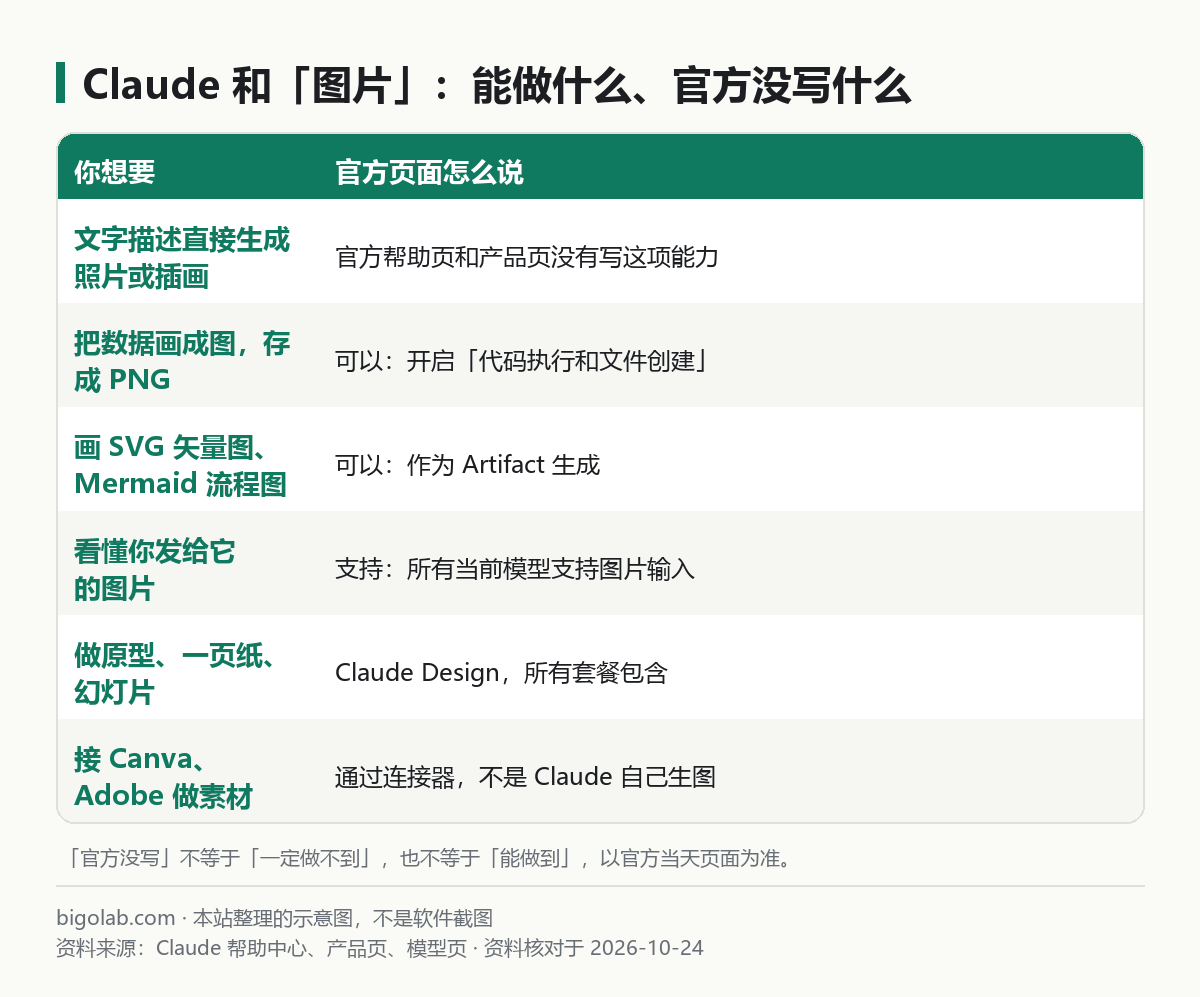
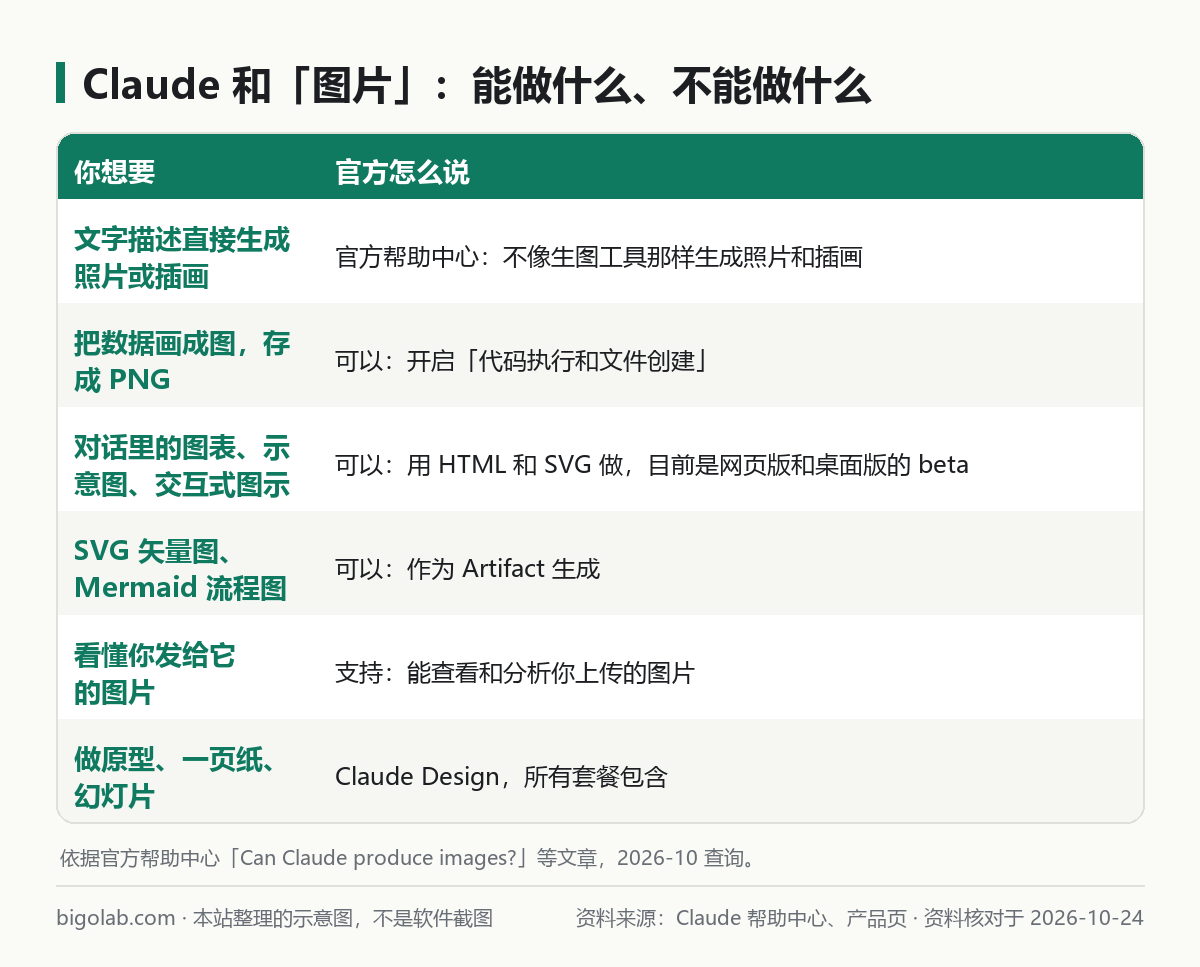
内容：Claude 热词教程 1065（手机应用订阅管理）；1053 按官方「Can Claude produce images?」改版；登记 1062/1063/1066 跳过原因

diff --git a/docs/内容平台/种子内容/guides/1065-claude-app-store-google-play-subscription.md b/docs/内容平台/种子内容/guides/1065-claude-app-store-google-play-subscription.md
@@ -1,0 +1,108 @@
+---
+title: Claude 订阅用 Google Pay、Apple 内购怎么管理：手机应用订阅的取消、退款和发票
+slug: claude-app-store-google-play-subscription
+products: [claude]
+models: []
+accountTier: PRO
+excerpt: 在 Claude 手机应用里用苹果或 Google Play 订阅，怎么管理？按官方帮助中心：谁收款、怎么取消、退款找谁、发票在哪、用量额度怎么买；官方没有提到 Google Pay 这个名字，只说支付方式取决于苹果或 Google。
+checkedOn: 2026-10-24
+sources:
+  - https://support.claude.com/en/articles/8325618-paid-plan-billing-faqs
+  - https://support.claude.com/en/articles/8325617-cancel-your-pro-or-max-subscription
+  - https://support.claude.com/en/articles/12386328-request-a-refund-for-a-paid-claude-plan
+  - https://support.claude.com/en/articles/16607638-understanding-your-pro-or-max-plan-invoices
+  - https://support.claude.com/en/articles/12429409-manage-usage-credits-for-paid-claude-plans
+  - https://support.claude.com/en/articles/9612892-how-do-i-sign-up-for-claude-pro-on-claude-for-android
+  - https://support.claude.com/en/articles/9266495-how-do-i-sign-up-for-claude-pro-on-the-claude-app-for-ios
+verify:
+  - 官方在 Android、iOS 订阅文章里只写了「Upgrade to Pro」后「按提示完成应用内购买」，没有写价格、具体支付方式，也没有出现 Google Pay 这个名字；本文不对「Google Pay 能不能付」作结论，以 Google Play 结账页显示的方式为准
+  - 官方说明手机应用商店的价格可能与网页订阅不同；各地区价格和税费以应用商店结账页为准
+  - 用量额度「手机订阅者只能在网页版启用和购买」取自 Extra usage 官方文章；退款、取消、发票规则取自 2026-10-24 官方帮助中心
+---
+
+> 本文根据 Claude 帮助中心的《Paid plan billing FAQs》《Cancel your Pro or Max subscription》《Request a refund for a paid Claude plan》《Understanding your Pro or Max plan invoices》和用量额度、手机应用订阅文章整理，资料核对于 2026-10-24。图为本站整理的示意图。**以官方页面和应用商店显示的为准**。
+
+## 适用于谁
+
+- 在 Claude 手机应用里用苹果内购或 Google Play 订阅，想知道怎么管理的人；
+- 搜「claude 订阅 google pay」，想知道能不能用 Google Pay 付款的人；
+- 手机订阅后想取消、退款、找发票的人。
+
+网页订阅的取消和退款，见 [/guides/claude-cancel-subscription-refund](/guides/claude-cancel-subscription-refund)；发票，见 [/guides/claude-invoice-receipt-download](/guides/claude-invoice-receipt-download)。
+
+## 结论先说
+
+1. **手机应用里的订阅是应用内购买**：官方说明，在 iOS 和 Android 应用里点头像、进设置、点 **Upgrade to Pro**，按提示完成应用内购买。这时收款的是苹果 App Store 或 Google Play，不是 Anthropic。
+2. **关于 Google Pay：官方没有提到这个名字。** 官方只说，网页订阅只接受信用卡或借记卡，应用订阅则使用苹果或 Google 提供的支付方式。你能用什么付款，以 Google Play 结账页显示的为准。
+3. **取消要在订阅的平台上做**：应用里点头像 → **Billing** → **Manage subscription**；如果已经删了应用，用苹果或 Google 官方的订阅管理方式取消。
+4. **退款分渠道**：苹果的扣款 Claude 客服无法退，要向苹果申请；Google Play 的由 Claude 客服核对资格。
+5. **发票和收据由苹果或 Google 开**，不在 Claude 账号里。
+6. 需要新开通、而又想用网页订阅的，可以看本站的 [/chongzhi/claude-pro](/chongzhi/claude-pro)。
+
+![网页订阅和手机应用订阅有什么不同](seed:g1065-web-vs-app-billing.png)
+*图：本站根据 [Claude 帮助中心：Paid plan billing FAQs](https://support.claude.com/en/articles/8325618-paid-plan-billing-faqs) 等整理的示意图*
+
+## 一、怎么在手机应用里订阅
+
+官方的步骤（iOS 和 Android 相同）：
+
+1. 打开 Claude 应用；
+2. 点右上角你的头像或首字母；
+3. 在设置页点 **Upgrade to Pro**；
+4. 按支付提示完成应用内购买。
+
+官方这两篇文章**没有写**价格、具体支付方式，也没有写如何管理、升降级、恢复购买。官方《What is the Pro plan?》只说：价格见 claude.ai/upgrade 或你所在地区应用商店里显示的价格；Pro 在美国是每月 20 美元，各地区价格不同，有的含税、有的结账时加税。官方对 Max 的说明还提到，应用商店里的价格可能与网页订阅价不同，具体见 [/guides/claude-pro-vs-max-difference](/guides/claude-pro-vs-max-difference)。
+
+## 二、怎么取消
+
+![手机订阅出问题，先找谁](seed:g1065-app-subscription-who-to-ask.png)
+*图：本站根据 [Claude 帮助中心](https://support.claude.com/en/articles/8325617-cancel-your-pro-or-max-subscription) 的取消、退款、发票、用量额度文章整理的示意图*
+
+官方《Cancel your Pro or Max subscription》：
+
+- **iOS**：打开 Claude 应用，点右上角头像，选 **Billing**，选 **Manage subscription**，按提示取消；如果已经删了应用，用苹果官方「取消订阅」说明操作；
+- **Android**：同样是头像 → **Billing** → **Manage subscription**；如果已经删了应用，用 Google 官方「在 Google Play 取消、暂停或更改订阅」说明操作；
+- 取消在**当前计费周期结束时**生效，官方建议在下次扣费前至少 24 小时取消。
+
+## 三、怎么退款
+
+官方《Request a refund for a paid Claude plan》：
+
+- **苹果（iOS）**：由苹果处理付款，Claude 客服无法查看或退款。要用购买时的苹果账号登录 reportaproblem.apple.com，选 **I'd like to** → **Request a refund**，选原因，选你的 Claude 订阅，提交。是否退款由苹果决定。**申请退款不等于取消订阅**，要另外取消，否则还会继续扣款；
+- **Google Play（Android）**：订阅仍有效时，联系 Claude 客服，由客服核对资格，首条消息里写清细节；订阅已失效时，用 Google Play 绑定的邮箱，或 GPA 订单号（在 Google Play 收据上，形如 GPA.xxxx-xxxx-xxxx-xxxxx）联系客服。退款可能要几天才到账。
+
+退款的总原则（付款一般不可退，欧洲经济区和英国 14 天内可申请，按用量折算）见 [/guides/claude-cancel-subscription-refund](/guides/claude-cancel-subscription-refund)。
+
+## 四、发票和收据
+
+官方《Understanding your Pro or Max plan invoices》说明：通过 iOS 或 Android 应用订阅的，Anthropic 不开发票，由苹果 App Store 或 Google Play 向你收费，收据在你的应用商店账号里。发票上要不要写公司名、税号，官方没有说明应用商店订阅怎么处理，请向苹果或 Google 确认。
+
+## 五、手机订阅怎么开用量额度
+
+官方《Extra usage / Manage usage credits for paid Claude plans》说明：如果你是通过 iOS 或 Android 应用订阅的，只能在 **Claude 网页版**上启用和购买用量额度，并且要先在网页上添加付款方式。额度怎么算见 [/guides/claude-code-pro-max-or-api](/guides/claude-code-pro-max-or-api) 和 [/guides/claude-usage-limits](/guides/claude-usage-limits)。
+
+## 六、想从应用订阅换成网页订阅
+
+官方没有写「直接迁移」的功能。官方帮助中心写明的相关事实是：账单日不能直接改，可以取消当前订阅后在想要的日期重新订阅；换订阅币种也需要先设为到期取消、等周期结束再重新购买。所以如果想从应用订阅换成网页订阅，思路是：在应用商店取消续费，等当前周期结束，再到网页上重新订阅。具体细节请向官方客服确认。手机应用的其他说明见 [/guides/claude-mobile-app](/guides/claude-mobile-app)。
+
+## 常见问题
+
+**Q：Claude 订阅能用 Google Pay 付款吗？**
+官方页面没有提到 Google Pay。应用订阅走的是 Google Play 的支付，能用什么方式看 Google Play 结账页。
+
+**Q：为什么 App 里的价格和网页不一样？**
+官方说明应用商店价格可能与网页价不同，也受地区和税费影响。
+
+**Q：已经退款了，订阅还在扣吗？**
+苹果的退款申请不会自动取消订阅，要另外取消；官方明确提醒。
+
+**Q：发票哪里下？**
+苹果或 Google 的账号里，不在 Claude 账号里。
+
+## 参考资料
+
+- Claude 帮助中心：Paid plan billing FAQs — https://support.claude.com/en/articles/8325618-paid-plan-billing-faqs
+- Claude 帮助中心：Cancel your Pro or Max subscription — https://support.claude.com/en/articles/8325617-cancel-your-pro-or-max-subscription
+- Claude 帮助中心：Request a refund for a paid Claude plan — https://support.claude.com/en/articles/12386328-request-a-refund-for-a-paid-claude-plan
+- Claude 帮助中心：Understanding your Pro or Max plan invoices — https://support.claude.com/en/articles/16607638-understanding-your-pro-or-max-plan-invoices
+- Claude 帮助中心：Extra usage for paid Claude plans — https://support.claude.com/en/articles/12429409-extra-usage-for-paid-claude-plans

diff --git a/docs/内容平台/种子内容/guides/1053-claude-image-generation.md b/docs/内容平台/种子内容/guides/1053-claude-image-generation.md
@@ -1,18 +1,19 @@
 ---
-title: Claude 能生成图片吗：能画图表和 SVG，官方没写文字生图
+title: Claude 能生成图片吗：官方说不生成照片和插画，但能做图表和交互式图示
 slug: claude-image-generation
 products: [claude]
 models: []
 accountTier: FREE
-excerpt: Claude 能生成图片吗？按官方帮助中心和产品页核对：能把数据画成 PNG 图表、生成 SVG 和 Mermaid 图，Claude Design 能做原型和幻灯片；但官方页面没有写「文字直接生成照片」这项能力。附开启步骤和替代办法。
+excerpt: Claude 能生成图片吗？官方帮助中心明确写：Claude 不像生图工具那样生成照片和插画；但能做对话里的图表和交互式图示、PNG 数据图表、SVG 和 Mermaid 图，Claude Design 能做原型和幻灯片。附开启步骤。
 checkedOn: 2026-10-24
 sources:
+  - https://support.claude.com/en/articles/9002504-can-claude-produce-images
   - https://support.claude.com/en/articles/12111783-create-and-edit-files-with-claude
   - https://claude.com/product/claude-design
   - https://platform.claude.com/docs/en/models/overview
   - https://claude.com/pricing
 verify:
-  - 「官方没写文字生图」的结论来自 2026-10-24 对帮助中心文件创建文章、Claude Design 产品页和帮助中心首页的核对：这些页面都没有描述从文字提示直接生成照片或插画的能力；这不等于官方声明做不到，新功能出现后需更新
+  - 「不生成照片和插画」取自 2026-10-24 官方帮助中心《Can Claude produce images?》的原意（Claude 不像生图工具那样生成照片或插画）；对话里的图表和交互式图示目前是网页版和桌面版的 beta，功能出现变化时需更新
   - 「所有当前模型支持图片输入、文字输出」取自官方 Models overview
   - Claude Design 在所有套餐（含免费版）包含、standalone 站点 claude.ai/design 保留到 2026-12-14，取自产品页；Enterprise 的默认开关日期等细节本文不展开
 ---
@@ -27,18 +28,20 @@ verify:
 
 ## 结论先说
 
-1. **「根据一句话直接生成一张照片或插画」这项能力，官方页面没有写。** 我们核对了帮助中心的文件创建文章、Claude Design 产品页和帮助中心首页，都没有描述这项功能。这不等于官方声明「做不到」，只是官方没有把它作为 Claude 的功能写出来，所以本文不把它当作 Claude 的能力来介绍。
-2. **Claude 能做的「图」有这几类**（官方写明的）：把数据画成**图表并保存为 PNG 文件**；作为 Artifact 生成 **SVG 矢量图**和 **Mermaid 图表**；在 **Claude Design** 里做原型、一页纸、幻灯片。
-3. **看图是另一回事**：官方说所有当前模型都支持**图片输入、文字输出**，也就是 Claude 能看懂你发给它的图片、截图、图表，再用文字回答。
+1. **官方帮助中心明确写了：Claude 不像生图工具那样生成照片或插画。** 官方《Can Claude produce images?》的原意是：Claude 不会像图像生成工具一样生成照片和插画。所以「一句话生成一张照片」不是它的功能。
+2. **Claude 能做的「图」有这几类**（官方写明的）：在对话里用 HTML 和 SVG 做**图表、示意图和交互式图示**（官方标注目前是网页版和桌面版的 beta）；把数据画成**图表并保存为 PNG 文件**；作为 Artifact 生成 **SVG 矢量图**和 **Mermaid 图表**；在 **Claude Design** 里做原型、一页纸、幻灯片。
+3. **看图是另一回事**：官方说所有当前模型都支持**图片输入、文字输出**，帮助中心也写明 Claude 可以查看和分析你上传的图片，也就是能看懂图片、截图、图表，再用文字回答。
 4. 想要真正的「文字生图」，需要别的工具；对比和选择见 [/guides/chatgpt-vs-claude](/guides/chatgpt-vs-claude)。Claude 更适合的是文字、代码、文档、数据分析，选模型见 [/guides/claude-models-compare](/guides/claude-models-compare)。
 5. 想用到文件创建和更高用量，可以看 [/chongzhi/claude-pro](/chongzhi/claude-pro)；免费版也能开启文件创建。
 
-![Claude 和「图片」：能做什么、官方没写什么](seed:g1053-claude-and-images.png)
+![Claude 和「图片」：能做什么、不能做什么](seed:g1053-claude-and-images.png)
 *图：本站根据 [Claude 帮助中心：Create and edit files with Claude](https://support.claude.com/en/articles/12111783-create-and-edit-files-with-claude) 与 [Claude Design 产品页](https://claude.com/product/claude-design) 整理的示意图*
 
 ## 一、官方写明 Claude 能产出什么
 
-按帮助中心《Create and edit files with Claude》：
+官方《Can Claude produce images?》说得很直接：Claude 能在对话里直接构建图表、示意图和交互式图示来帮助你理解，这些用 HTML 和 SVG 做成，你可以互动、追问和要求修改；这项功能目前在网页版和桌面版是 beta，详细见官方《Custom visuals in chat》。而「像生图工具那样生成照片和插画」，官方明确说不是它做的事。
+
+再按帮助中心《Create and edit files with Claude》：
 
 - **Office 和文档**：Excel（.xlsx）、PowerPoint（.pptx）、Word（.docx）和 PDF；
 - **图片文件**：官方描述的图片输出只有一种——**数据可视化，保存为 PNG**；
@@ -83,7 +86,7 @@ verify:
 ## 常见问题
 
 **Q：为什么有人说 Claude 能生图？**
-可能指的是它能生成 SVG、图表或设计稿，这些是官方写明的；但「用一句话直接生成逼真照片」，官方页面没有这项描述。
+可能指的是它能生成 SVG、图表、交互式图示或设计稿，这些是官方写明的；但官方帮助中心明确说它不像生图工具那样生成照片和插画。
 
 **Q：SVG 能当图片用吗？**
 可以。SVG 是矢量图，官方把 SVG 列在 Claude 能生成的 Artifact 里，具体用法见 [/guides/claude-artifacts](/guides/claude-artifacts)。
@@ -92,10 +95,11 @@ verify:
 官方说明文件创建功能在 Free、Pro、Max 上都能开启。
 
 **Q：能让 Claude 编辑我上传的图片吗？**
-官方文章写的是 Claude 能「看」图片、也能创建 PNG 图表，没有写它能对已有照片做修图。
+官方文章写的是 Claude 能查看和分析图片、也能创建 PNG 图表，没有写它能对已有照片做修图。
 
 ## 参考资料
 
+- Claude 帮助中心：Can Claude produce images? — https://support.claude.com/en/articles/9002504-can-claude-produce-images
 - Claude 帮助中心：Create and edit files with Claude — https://support.claude.com/en/articles/12111783-create-and-edit-files-with-claude
 - Claude Design 产品页 — https://claude.com/product/claude-design
 - Claude 官方 Models overview — https://platform.claude.com/docs/en/models/overview

diff --git a/docs/内容平台/种子内容/_来源-d3.md b/docs/内容平台/种子内容/_来源-d3.md
@@ -50,3 +50,10 @@
 | g1060-where-to-find-skills.png | 1060 Skills 去哪找 | https://github.com/anthropics/skills 、https://support.claude.com/en/articles/12512180-using-skills-in-claude |
 | g1061-claude-capabilities-official.png | 1061 Claude 能干嘛 | https://claude.com/product/overview |
 | g1061-claude-entry-by-task.png | 1061 Claude 能干嘛 | https://claude.com/product/overview 、https://claude.com/download |
+| g1053-claude-and-images.png（已按官方《Can Claude produce images?》改版） | 1053 Claude 生图 | https://support.claude.com/en/articles/9002504-can-claude-produce-images |
+| g1065-web-vs-app-billing.png | 1065 手机应用订阅 | https://support.claude.com/en/articles/8325618-paid-plan-billing-faqs 等 |
+| g1065-app-subscription-who-to-ask.png | 1065 手机应用订阅 | 取消、退款、发票、用量额度四篇官方帮助文章（见该教程 sources） |
+
+- 1062 Claude 风格（Styles）怎么设置：帮助中心「Features and capabilities」「Personalization and settings」两个集合里没有 Styles 文章，个性化功能文章也未提及 Styles，且该文说明技能可调整语气和格式；找不到官方依据，跳过。
+- 1063 Claude 提示「已达到用量上限」怎么办：已有 18-claude-usage-limits 已含提示原文与处理，无新增依据，跳过。
+- 1066 Claude 网页版登录不了：与已有 933-claude-cant-login-or-use 重复，跳过。

diff --git a/docs/内容平台/种子内容/guides/1061-claude-what-can-it-do.md b/docs/内容平台/种子内容/guides/1061-claude-what-can-it-do.md
@@ -73,7 +73,7 @@ verify:
 
 官方 Models overview 写明：当前模型都支持文字和图片输入、文字输出、多语言、视觉和工具调用；上下文窗口 100 万 token，最大输出 12.8 万 token；官方把 Opus 5.5 作为大多数工作的起点，Fable 5.1 用于最苛刻的推理和长时间智能体任务，Sonnet 5.5 是速度与智能的平衡，Haiku 5.5 面向高并发和低延迟。三款的差别见 [/guides/claude-opus-vs-sonnet](/guides/claude-opus-vs-sonnet)。
 
-官方还提醒了一些边界：**官方页面没有写「文字直接生成图片」这项能力**，见 [/guides/claude-image-generation](/guides/claude-image-generation)；**某些地区不在官方支持名单里**，见 [/guides/claude-supported-countries-regions](/guides/claude-supported-countries-regions)；用量有限额，见 [/guides/claude-usage-limits](/guides/claude-usage-limits)。
+官方还提醒了一些边界：**官方帮助中心明确说 Claude 不像生图工具那样生成照片和插画**，见 [/guides/claude-image-generation](/guides/claude-image-generation)；**某些地区不在官方支持名单里**，见 [/guides/claude-supported-countries-regions](/guides/claude-supported-countries-regions)；用量有限额，见 [/guides/claude-usage-limits](/guides/claude-usage-limits)。
 
 ## 四、关于「安全」的官方说法
 
